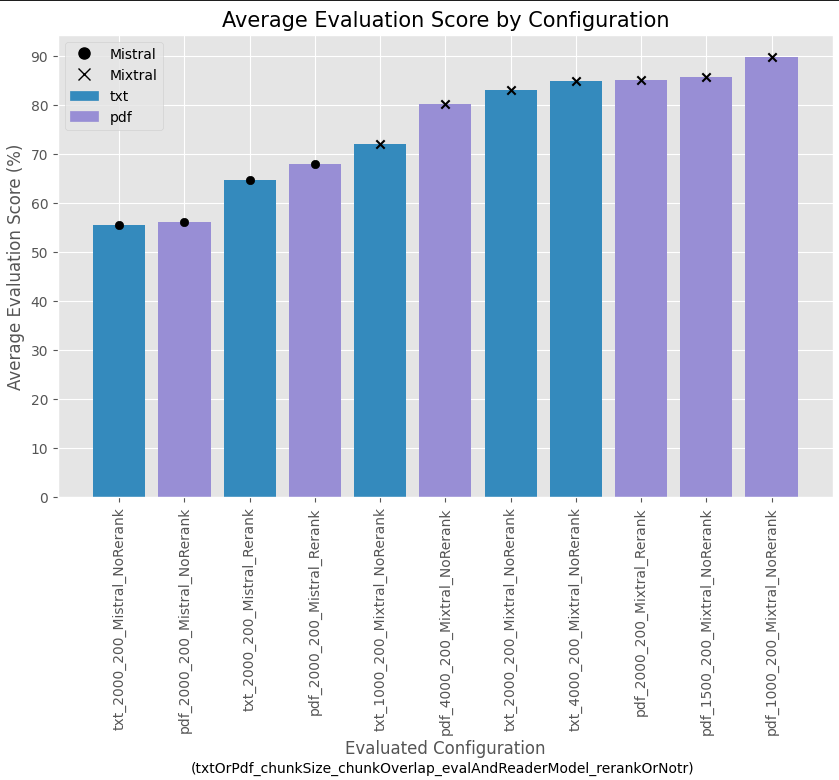
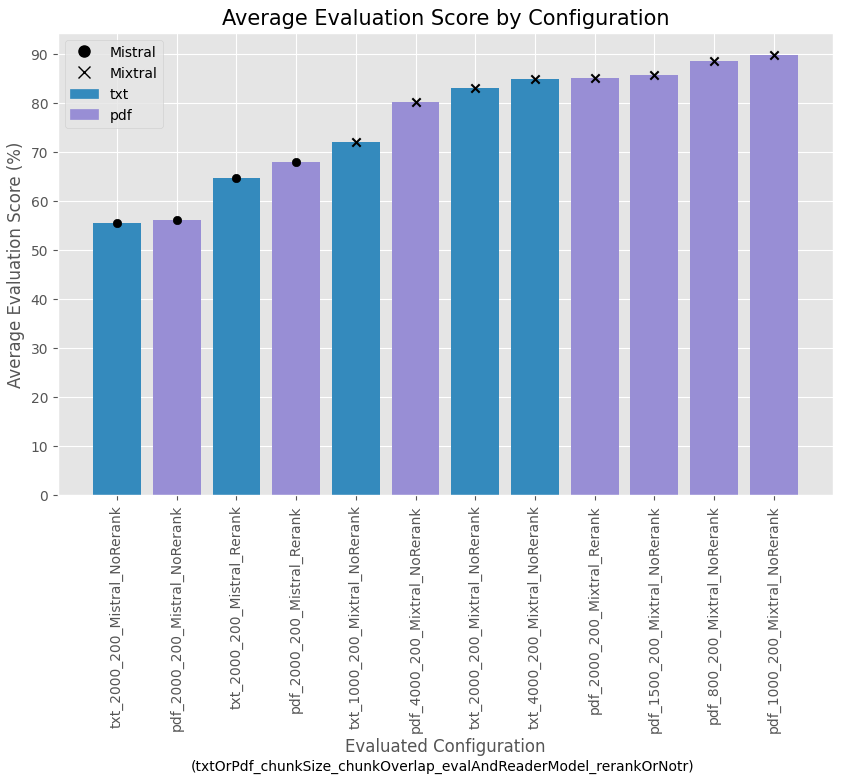
add missing type annotations, remove unnecessary imports, test 800/200 mixtral

diff --git a/scripts/utils.py b/scripts/utils.py
@@ -1,16 +1,19 @@
+"""
+This module contains utility functions for the application.
+"""
+
 import re
-import numpy as np
 import logging
 import feedparser
 import os
 import shutil
 from pathlib import Path
+from typing import Tuple
 from PyPDF2 import PdfReader
 from langchain.docstore.document import Document
 from exllamav2 import *
 from exllamav2.generator import *
 from langchain_community.embeddings import HuggingFaceEmbeddings
-#from langchain.embeddings import HuggingFaceEmbeddings
 from langchain.embeddings import CacheBackedEmbeddings
 from langchain.storage import LocalFileStore
 from colorama import Fore, Style
@@ -57,7 +60,17 @@ def get_title(arxiv_id,use_logging=True):
         return ''
     
 def get_title_and_abstract(arxiv_id):
-    # Construct the query URL
+    """
+    Fetches the title and abstract of a paper from the arXiv API.
+
+    This function constructs a query URL using the provided arXiv ID, fetches the data from the arXiv API, and extracts the title of the paper. If an error occurs, it logs the error and returns an empty string.
+
+    Args:
+        arxiv_id (str): The arXiv ID of the paper.
+
+    Returns:
+        tuple: (title,abstract) of the paper, or ('','') if an error occurs.
+    """
     try:
         arxiv_id = arxiv_id.replace('v2','').replace('v1','').replace('.pdf','').replace('.txt','')
         url = f'http://export.arxiv.org/api/query?id_list={arxiv_id}'
@@ -94,6 +107,20 @@ def move_processed_files(input_dir, processed_dir, filename):
     processed_file = os.path.join(processed_dir, filename)
     shutil.move(input_file, processed_file)
 
+def list_subdirectories(directory):
+    """
+    Recursively list all subdirectories from the given directory.
+
+    Parameters:
+    directory (str): The root directory from which to start listing subdirectories.
+    """
+    paths = []
+    for root, dirs, files in os.walk(directory):
+        for dir in dirs:
+            dir_path = os.path.join(root, dir)
+            paths.append(dir_path)
+    return paths
+
 
 def get_docs_from_txt(files_path:str,text_splitter):
     """
@@ -122,7 +149,7 @@ def get_docs_from_txt(files_path:str,text_splitter):
     return all_docs
 
 
-def load_pdf_to_string(pdf_path):
+def load_pdf_to_string(pdf_path:str):
     """
     This function reads a PDF file and extracts its text content up to the 'REFERENCES' section.
 
@@ -192,7 +219,7 @@ def load_elx2_llm(model_dir="../MixtralInference/Mixtral-8x7B-instruct-exl2"):
     model = ExLlamaV2(config)
     cache = ExLlamaV2Cache(model, lazy = True)
 
-    print(f"{Fore.BLUE}Loading model...{Fore.RESET}")
+    print(f"{Fore.BLUE}Loading model...{Style.RESET_ALL}")
     model.load_autosplit(cache)
 
     tokenizer = ExLlamaV2Tokenizer(config)
@@ -226,7 +253,7 @@ def call_llm(
     output = generator.generate_simple(f"<s>[INST] {question} [/INST]", settings, max_new_tokens, seed = 1234)
     return output
 
-def get_embedder(embed_model_id='mixedbread-ai/mxbai-embed-large-v1'):
+def get_embedder(embed_model_id='mixedbread-ai/mxbai-embed-large-v1')->Tuple[CacheBackedEmbeddings,HuggingFaceEmbeddings]:
     """
     This function creates an embedder object that can be used to transform text into vector representations.
 

diff --git a/scripts/get_vector_store.py b/scripts/get_vector_store.py
@@ -31,27 +31,20 @@ Note: This script relies on a global 'args' object for its parameters. The 'args
 
 from tqdm.auto import tqdm
 from argparse import ArgumentParser
-import pandas as pd
-pd.set_option("display.max_colwidth", None)
-
-from pathlib import Path
 import sys, os
 cwd = os.getcwd()
-print(cwd)
 sys.path.append(os.path.join(cwd, 'scripts'))
 import utils
-
+from langchain.docstore.document import Document
 from langchain.text_splitter import RecursiveCharacterTextSplitter
-from langchain_community.embeddings import HuggingFaceEmbeddings 
-#from langchain.embeddings import HuggingFaceEmbeddings
-from langchain.embeddings import  CacheBackedEmbeddings
+#from langchain_community.embeddings import HuggingFaceEmbeddings 
+#from langchain.embeddings import  CacheBackedEmbeddings
 from langchain_community.vectorstores import FAISS
-#from langchain.vectorstores import FAISS
-from langchain.storage import LocalFileStore
+#from langchain.storage import LocalFileStore
 
 
 
-def get_vector_store(docs, embedder):
+def get_vector_store(docs:list[Document], embedder:'langchain.embeddings.cache.CacheBackedEmbeddings')->FAISS:
     """
     This function generates a FAISS vector store from a list of documents.
 
@@ -75,7 +68,7 @@ def get_vector_store(docs, embedder):
     return vector_store
 
 
-def generate_vs():
+def generate_vs()->None:
     """
     This function processes a set of text or PDF files, creating a list of Document objects from their content.
 
@@ -96,19 +89,12 @@ def generate_vs():
     )
 
     embedder,_ = utils.get_embedder(args.embed_model_id)
-    #FILES_PATH = Path(args.files_path)
     
     if args.pdf_or_txt == 'txt':
-        # FILES = list(FILES_PATH.glob('*.txt'))
-        # if not FILES: print('Please check the path to the txt files');exit(1)
-        # print(f'Number of txt files: {len(FILES)}')
         docs_processed = utils.get_docs_from_txt(args.files_path,text_splitter=text_splitter)
         print(f'Number of txt documents: {len(docs_processed)}')
         path_sub = 'txts'
     elif args.pdf_or_txt == 'pdf':
-        # FILES = list(FILES_PATH.glob('*.pdf'))
-        # if not FILES: print('Please check the path to the pdf files');exit(1)
-        # print(f'Number of pdf files: {len(FILES)}')
         docs_processed = utils.get_docs_from_pdf(args.files_path,text_splitter=text_splitter)
         print(f'Number of pdf documents: {len(docs_processed)}')
         path_sub = 'pdfs'

diff --git a/scripts/answer_w_rag_and_test.py b/scripts/answer_w_rag_and_test.py
@@ -83,9 +83,9 @@ def answer_with_rag(
     question: str,
     reader_llm: ExLlamaV2StreamingGenerator,
     reader_llm_settings:ExLlamaV2Sampler.Settings,
-    embedding_model,
-    max_new_tokens,
-    knowledge_index,
+    embedding_model:FAISS,
+    max_new_tokens:int,
+    knowledge_index:FAISS,
     use_reranker: Optional[RAGPretrainedModel] = False,
     num_retrieved_docs: int = 20, #30,
     num_docs_final: int = 10,
@@ -147,7 +147,7 @@ def run_rag_tests(
     reader_llm: ExLlamaV2StreamingGenerator,
     reader_llm_settings:ExLlamaV2Sampler.Settings,
     knowledge_index: FAISS,
-    embedding_model,
+    embedding_model:'langchain_community.embeddings.huggingface.HuggingFaceEmbeddings',
     use_reranker: Optional[RAGPretrainedModel] = None,
     test_settings: str = None
 ):
@@ -196,7 +196,17 @@ def run_rag_tests(
 
 
 
-def main(vs_dir):
+def main(vs_dir:str):
+    """
+    Main function to load embeddings, run RAG tests, and save the results.
+
+    This function loads the language model and embeddings, loads a dataset from a CSV file, runs RAG tests on the dataset, and saves the results to a CSV file.
+
+    Parameters:
+    vs_dir (str): The directory where the vector store is located.
+
+    Note: This function uses command-line arguments for several settings, including the directories of the language model and embeddings, the CSV file paths, and the output file path.
+    """
     reader_llm, reader_llm_settings = utils.load_elx2_llm(args.reader_llm_dir)
     embedder,core_embedding_model = utils.get_embedder(args.embed_model_id)
     vector_store = FAISS.load_local(vs_dir, embedder,allow_dangerous_deserialization=True)

diff --git a/scripts/generate_eval_qa.py b/scripts/generate_eval_qa.py
@@ -30,22 +30,19 @@ from typing import List
 from exllamav2 import *
 from exllamav2.generator import *
 from langchain.text_splitter import RecursiveCharacterTextSplitter
-
 #import pandas as pd
 import json
 import random
+from argparse import ArgumentParser
 from tqdm import tqdm
 import sys, os
 cwd = os.getcwd()
 sys.path.append(os.path.join(cwd, 'scripts'))
 import utils
 
-from argparse import ArgumentParser
 
 
-
-
-def genenerate_questions(n_generations: int, docs: List[str],llm,llm_settings):
+def genenerate_questions(n_generations: int, docs: List[str],llm:ExLlamaV2StreamingGenerator,llm_settings:ExLlamaV2Sampler.Settings):
     """
     Generate a specified number of question-answer pairs from a list of documents.
 
@@ -100,7 +97,7 @@ def genenerate_questions(n_generations: int, docs: List[str],llm,llm_settings):
     return outputs
 
 
-def main(llm,llm_settings,eval_output_json):
+def main(llm:ExLlamaV2StreamingGenerator,llm_settings:ExLlamaV2Sampler.Settings,eval_output_json):
     """
     Qenerate question-answer pairs from a set of documents and save them to a CSV file.
 
@@ -109,7 +106,7 @@ def main(llm,llm_settings,eval_output_json):
     llm_settings: The settings to use for the language model.
     eval_output_json (str): The name of the CSV file to save the question-answer pairs to.
     Returns:
-        None
+        None, writes json outputs to file
     """
     text_splitter = RecursiveCharacterTextSplitter(
         chunk_size=args.chunk_size,

diff --git a/scripts/judge_answers.py b/scripts/judge_answers.py
@@ -88,6 +88,13 @@ def evaluate_answers(
         
 
 def main():
+    """
+    Main function to evaluate answers and save the results.
+
+    This function loads a language model and settings, creates an evaluation prompt template, evaluates the answers using the loaded model and settings, saves the results to a CSV file, and creates a histogram of the evaluation scores.
+
+    Note: This function uses command-line arguments for several settings, including the path to the language model directory and the input/output file path.
+    """
 
     EVALUATION_PROMPT = """###Task Description:
     An instruction (might include an Input inside it), a response to evaluate, a reference answer that gets a score of 5, and a score rubric representing a evaluation criteria are given.
@@ -130,8 +137,8 @@ def main():
     judged_answers_df.to_csv(args.ragans_inout_fullpath, index=False)
     
     judged_answers_df.eval_score.sort_values().hist()
-    plt.title(args.ragans_inout_fullpath.split('/')[-1])
-    plt.savefig(args.ragans_inout_fullpath.replace('.csv','.png'))
+    #plt.title(args.ragans_inout_fullpath.split('/')[-1])
+    #plt.savefig(args.ragans_inout_fullpath.replace('.csv','.png'))
 
 parser = argparse.ArgumentParser()
 parser.add_argument('--ragans_inout_fullpath', type=str, required=True, help='pdf or txt')

diff --git a/scripts/critique_qa.py b/scripts/critique_qa.py
@@ -16,8 +16,8 @@ This script requires the `ExLlamaV2StreamingGenerator` and `ExLlamaV2Sampler.Set
 from argparse import ArgumentParser
 from tqdm.auto import tqdm
 import pandas as pd
-pd.set_option("display.max_colwidth", None)
 import json
+from typing import Dict
 
 import sys, os
 cwd = os.getcwd()
@@ -26,7 +26,7 @@ sys.path.append(os.path.join(cwd, 'scripts'))
 import utils
 
 
-def gen_critiques(critic_llm_dir, qas_json_fullpath):
+def gen_critiques(critic_llm_dir:str, qas_json_fullpath:str)->pd.DataFrame:
     """
     Generates critiques for each question-answer pair in a given JSON file using a chat model.
 
@@ -136,7 +136,7 @@ def gen_critiques(critic_llm_dir, qas_json_fullpath):
     return cleaned_critiques
  
 
-def cleanup_critique(json_outputs):
+def cleanup_critique(json_outputs:Dict)->pd.DataFrame:
     """
     Cleans up the critiques generated by the `gen_critiques` function.
 
